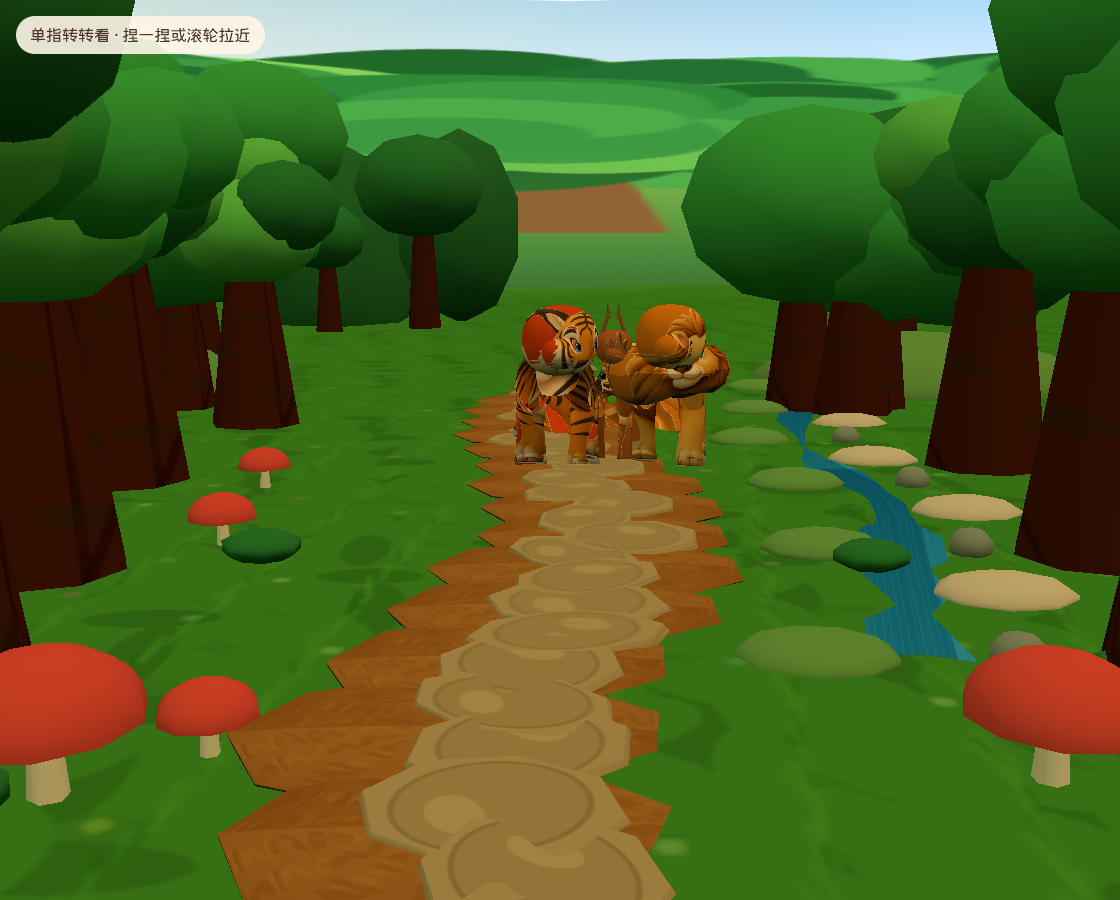
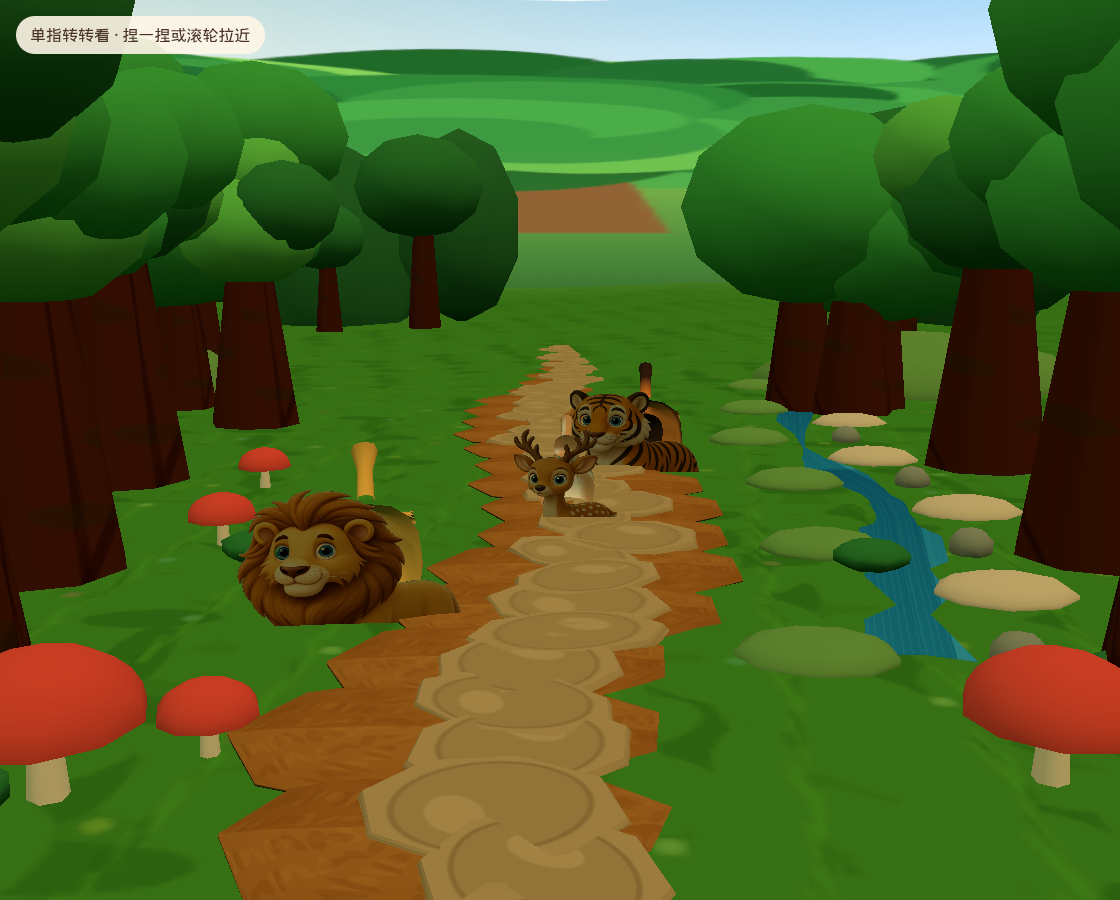
Show the standing cartoon in every forest pose.
The generated PNG stays an undistorted hip-parented cutout, so walk, sit,
drink, and sleep still read as the fluffy-mane lion. The skinned body only
adds volume and leg motion. Recapture the half-size forest stills.

Changed region(s): [[0.4375, 0.3422, 0.6562, 0.5911], [0.1875, 0.4667, 0.4062, 0.7156]]

diff --git a/web/src/world-exhibition/cartoon-rig.ts b/web/src/world-exhibition/cartoon-rig.ts
@@ -1,6 +1,6 @@
 /**
  * 陆地狮 / 鹿 / 虎：真骨骼 + 不涂抹的角色脸。
- * 站立剪纸只贴在头骨上当肖像（鬃毛轮廓还在）；身子/腿是分件蒙皮，不把整张 PNG
+ * 站立剪纸贴在髋骨上当全身肖像（鬃毛轮廓还在）；身子/腿是分件蒙皮，不把 PNG
  * 糊在揉皱的体积上。不是圆球 CSG、不是向日葵幼崽、不是 Kenney 方块。
  */
 import * as THREE from 'three'
@@ -44,7 +44,7 @@ type Bind = {
   coat: string
   mane: string
   belly: string
-  portrait: { w: number; h: number; y: number; z: number; u0: number; v0: number; u1: number; v1: number }
+  portrait: { w: number; h: number; y: number; z: number }
 }
 
 function v(x: number, y: number, z: number): THREE.Vector3 {
@@ -67,7 +67,7 @@ const BIND: Record<LandId, Bind> = {
     coat: '#f0b54a',
     mane: '#d47828',
     belly: '#ffe6b0',
-    portrait: { w: 0.78, h: 0.84, y: 0.05, z: 0.3, u0: 0.0, v0: 0.38, u1: 0.6, v1: 1 },
+    portrait: { w: 1.14, h: 1.22, y: 0.19, z: 0.58 },
   },
   deer: {
     hips: v(0, 0.52, -0.16),
@@ -84,7 +84,7 @@ const BIND: Record<LandId, Bind> = {
     coat: '#d9a066',
     mane: '#c48a4a',
     belly: '#f6e4c8',
-    portrait: { w: 0.4, h: 0.42, y: 0.02, z: 0.2, u0: 0.08, v0: 0.44, u1: 0.6, v1: 0.86 },
+    portrait: { w: 0.78, h: 1.32, y: 0.18, z: 0.56 },
   },
   tiger: {
     hips: v(0, 0.4, -0.2),
@@ -101,7 +101,7 @@ const BIND: Record<LandId, Bind> = {
     coat: '#f08a3a',
     mane: '#e07a30',
     belly: '#ffe0b0',
-    portrait: { w: 0.52, h: 0.5, y: 0.03, z: 0.24, u0: 0.0, v0: 0.46, u1: 0.54, v1: 1 },
+    portrait: { w: 1.08, h: 1.1, y: 0.16, z: 0.6 },
   },
 }
 
@@ -178,14 +178,20 @@ function paintHull(geo: THREE.BufferGeometry, bind: Bind, id: LandId): void {
   const tmp = new THREE.Vector3()
   for (let i = 0; i < pos.count; i++) {
     tmp.fromBufferAttribute(pos, i)
-    const c = tmp.y < bind.hips.y - 0.02 ? belly.clone().lerp(coat, 0.35) : coat.clone()
-    if (id === 'lion' && tmp.z > bind.chest.z - 0.04 && tmp.y > bind.chest.y - 0.08) {
+    const isLeg = Math.abs(tmp.x) > 0.1 && tmp.y < bind.fl.y - 0.02
+    const c = coat.clone()
+    if (isLeg) {
+      if (tmp.y < 0.12) c.lerp(new THREE.Color('#b56b2c'), 0.4)
+    } else if (tmp.y < bind.hips.y - 0.05 && tmp.z > bind.hips.z && tmp.z < bind.chest.z + 0.04) {
+      c.copy(belly)
+    }
+    if (id === 'lion' && !isLeg && tmp.z > bind.chest.z - 0.04 && tmp.y > bind.chest.y - 0.08) {
       c.copy(mane).lerp(coat, 0.18)
     }
-    if (id === 'tiger' && Math.abs(Math.sin(tmp.z * 9 + tmp.y * 3)) > 0.62 && tmp.y > 0.22) {
+    if (id === 'tiger' && !isLeg && Math.abs(Math.sin(tmp.z * 9 + tmp.y * 3)) > 0.62 && tmp.y > 0.22) {
       c.copy(stripe)
     }
-    if (id === 'deer' && tmp.y > bind.spine.y && ((i * 13) % 17) < 2) {
+    if (id === 'deer' && !isLeg && tmp.y > bind.spine.y && ((i * 13) % 17) < 2) {
       c.set('#fff6e0')
     }
     colors[i * 3] = c.r
@@ -211,7 +217,7 @@ function hullFor(id: LandId, bind: Bind): THREE.BufferGeometry {
     ),
   )
 
-  const legR = id === 'deer' ? 0.055 : 0.08
+  const legR = id === 'deer' ? 0.045 : 0.062
   for (const p of [bind.fl, bind.fr, bind.bl, bind.br]) {
     geos.push(
       loft(
@@ -241,14 +247,6 @@ function hullFor(id: LandId, bind: Bind): THREE.BufferGeometry {
       8,
     ),
   )
-
-  if (id === 'lion') {
-    const ruff = new THREE.TorusGeometry(0.22, 0.12, 10, 18)
-    ruff.rotateX(Math.PI / 2)
-    ruff.scale(1.08, 1.2, 0.92)
-    ruff.translate(bind.neck.x, bind.neck.y - 0.02, bind.neck.z - 0.04)
-    geos.push(ruff)
-  }
 
   if (id === 'deer') {
     geos.push(
@@ -339,6 +337,7 @@ function addFace(head: THREE.Bone, id: LandId): void {
       tine.rotation.z = sx * -0.4
       beam.add(tine)
       g.add(beam)
+      g.visible = false
       return g
     }
     head.add(antler('antler-left', -1), antler('antler-right', 1))
@@ -348,20 +347,16 @@ function addFace(head: THREE.Bone, id: LandId): void {
 function makePortrait(id: LandId, bind: Bind, map: THREE.Texture): THREE.Mesh {
   const p = bind.portrait
   const geo = new THREE.PlaneGeometry(p.w, p.h)
-  geo.setAttribute(
-    'uv',
-    new THREE.Float32BufferAttribute([p.u0, p.v1, p.u1, p.v1, p.u0, p.v0, p.u1, p.v0], 2),
-  )
   const mat = new THREE.MeshLambertMaterial({
     map,
     color: '#ffffff',
-    alphaTest: 0.28,
+    alphaTest: 0.22,
     side: THREE.DoubleSide,
     transparent: false,
     depthWrite: true,
     polygonOffset: true,
-    polygonOffsetFactor: -2,
-    polygonOffsetUnits: -2,
+    polygonOffsetFactor: -4,
+    polygonOffsetUnits: -4,
   })
   mat.name = 'portrait'
   const mesh = new THREE.Mesh(geo, mat)
@@ -460,10 +455,10 @@ function clipsFor(bind: Bind): THREE.AnimationClip[] {
   const sitT = [0, 0.35, 1.6]
   const sitHold = (name: string, q: number[]) => qtrack(name, sitT, [q, q, q])
   const sit = new THREE.AnimationClip('sit', 1.6, [
-    sitHold('hips', quat(X, 0.22)),
-    sitHold('spine', quat(X, -0.36)),
-    sitHold('chest', quat(X, -0.06)),
-    sitHold('neck', quat(X, 0.22)),
+    sitHold('hips', quat(X, 0.42)),
+    sitHold('spine', quat(X, -0.28)),
+    sitHold('chest', quat(X, -0.04)),
+    sitHold('neck', quat(X, 0.18)),
     sitHold('head', REST),
     sitHold('leg-back-left', quat(X, 1.15)),
     sitHold('leg-back-right', quat(X, 1.15)),
@@ -472,28 +467,30 @@ function clipsFor(bind: Bind): THREE.AnimationClip[] {
     sitHold('leg-front-left', quat(X, 0.08)),
     sitHold('leg-front-right', quat(X, 0.08)),
     sitHold('tail', quat(X, 0.25)),
-    new THREE.VectorKeyframeTrack('hips.position', sitT, [...hipPos(hy * 0.62), ...hipPos(hy * 0.62), ...hipPos(hy * 0.62)]),
+    new THREE.VectorKeyframeTrack('hips.position', sitT, [...hipPos(hy * 0.5), ...hipPos(hy * 0.5), ...hipPos(hy * 0.5)]),
   ])
 
   const drinkT = [0, 0.3, 1.5]
   const drinkHold = (name: string, q: number[]) => qtrack(name, drinkT, [q, q, q])
   const drink = new THREE.AnimationClip('drink', 1.5, [
-    drinkHold('neck', quat(X, 0.55)),
-    drinkHold('head', quat(X, 0.28)),
-    drinkHold('leg-front-left', quat(X, 0.22)),
-    drinkHold('leg-front-right', quat(X, 0.22)),
+    drinkHold('hips', quat(X, 0.38)),
+    drinkHold('spine', quat(X, 0.16)),
+    drinkHold('neck', quat(X, 0.22)),
+    drinkHold('head', quat(X, 0.12)),
+    drinkHold('leg-front-left', quat(X, 0.28)),
+    drinkHold('leg-front-right', quat(X, 0.28)),
     drinkHold('tail', quat(X, 0.12)),
-    new THREE.VectorKeyframeTrack('hips.position', drinkT, [...hipPos(hy * 0.92), ...hipPos(hy * 0.92), ...hipPos(hy * 0.92)]),
+    new THREE.VectorKeyframeTrack('hips.position', drinkT, [...hipPos(hy * 0.88), ...hipPos(hy * 0.88), ...hipPos(hy * 0.88)]),
   ])
 
   const sleepT = [0, 0.4, 2]
   const sleepHold = (name: string, q: number[]) => qtrack(name, sleepT, [q, q, q])
   const sleep = new THREE.AnimationClip('sleep', 2, [
-    sleepHold('hips', quat(X, 0.08)),
-    sleepHold('spine', quat(X, 0.1)),
+    sleepHold('hips', quat(X, 0.22)),
+    sleepHold('spine', quat(X, 0.08)),
     sleepHold('chest', quat(X, 0.04)),
-    sleepHold('neck', quat(X, -0.14)),
-    sleepHold('head', quat(X, 0.04)),
+    sleepHold('neck', quat(X, -0.1)),
+    sleepHold('head', quat(X, 0.02)),
     sleepHold('leg-front-left', quat(X, 0.95)),
     sleepHold('leg-front-right', quat(X, 0.95)),
     sleepHold('leg-back-left', quat(X, 1.05)),
@@ -502,7 +499,7 @@ function clipsFor(bind: Bind): THREE.AnimationClip[] {
     sleepHold('leg-front-right-low', quat(X, -0.9)),
     sleepHold('leg-back-left-low', quat(X, -0.98)),
     sleepHold('leg-back-right-low', quat(X, -0.98)),
-    sleepHold('tail', quat(Y, 0.2)),
+    sleepHold('tail', quat(X, 0.85)),
     new THREE.VectorKeyframeTrack('hips.position', sleepT, [...hipPos(hy * 0.46), ...hipPos(hy * 0.46), ...hipPos(hy * 0.46)]),
   ])
 
@@ -549,7 +546,7 @@ export function buildCartoonRig(id: AnimalId, map: THREE.Texture): THREE.Group {
   bone('leg-back-right-low', v(bind.br.x, bind.br.y - bind.legLen * 0.5, bind.br.z), br)
   addFace(head, kind)
   const portrait = makePortrait(kind, bind, map)
-  head.add(portrait)
+  hips.add(portrait)
   if (kind === 'lion') {
     const mane = dummy('mane', bind.mane, 0.02, 0.02, 0.02)
     mane.visible = false

diff --git a/web/src/world-exhibition/host-world.ts b/web/src/world-exhibition/host-world.ts
@@ -467,6 +467,22 @@ export class HostWorld {
     return true
   }
 
+  private snapClip(group: THREE.Group, time: number): void {
+    const mixer = group.userData.mixer as THREE.AnimationMixer | undefined
+    const active = group.userData.activeClip as THREE.AnimationAction | undefined
+    const actions = group.userData.actions as Record<string, THREE.AnimationAction> | undefined
+    if (!mixer || !active) return
+    if (actions) {
+      for (const clip of Object.values(actions)) {
+        if (clip !== active) clip.stop()
+      }
+    }
+    active.enabled = true
+    active.setEffectiveWeight(1)
+    active.time = time
+    mixer.update(0)
+  }
+
   /** 狮 / 鹿 / 虎站在石径上，对着 gen-forest-with-animals。 */
   poseLineup(): boolean {
     const land = [...this.actors.values()].filter((a) => !a.marine)
@@ -482,7 +498,9 @@ export class HostWorld {
       actor.frozen = true
       actor.group.position.set(slot[0], 0.02, slot[1])
       actor.group.rotation.y = 0
+      actor.group.userData._animT = undefined
       tickAction(actor.group, 'walk', 0.35)
+      this.snapClip(actor.group, 0.35)
       if (facesHostCamera(actor.group)) billboardY(actor.group, this.camera)
     })
     this.orbit.target.set(0.05, 0.62, -0.4)
@@ -503,32 +521,22 @@ export class HostWorld {
     chosen.forEach((actor, i) => {
       actor.frozen = true
       if (action === 'drink') {
-        actor.group.position.set(SHORE_DRINK.x, 0.02, SHORE_DRINK.z + actor.lane * 0.7)
-      } else if (action === 'rest') {
-        const p = pointOnPath(0.28, -3.2 + i * 1.4)
-        actor.group.position.set(p.x, 0.02, p.z)
-      } else if (action === 'sit') {
-        const p = pointOnPath(0.42, 2.8 - i * 1.6)
-        actor.group.position.set(p.x, 0, p.z)
+        actor.group.position.set(SHORE_DRINK.x - 1.7 + i * 1.15, 0.02, SHORE_DRINK.z - 0.15 + i * 0.2)
       } else {
         const slot = slots[Math.min(i, slots.length - 1)]!
-        actor.group.position.set(slot[0], 0.02, slot[1])
+        const back = action === 'rest' ? -0.45 : action === 'sit' ? -0.2 : 0
+        actor.group.position.set(slot[0], 0.02, slot[1] + back)
       }
       actor.group.rotation.y = 0
       actor.group.userData._animT = undefined
       const sample = action === 'walk' ? 0.28 : 0.8
       tickAction(actor.group, action, sample)
-      const mixer = actor.group.userData.mixer as THREE.AnimationMixer | undefined
-      const active = actor.group.userData.activeClip as THREE.AnimationAction | undefined
-      if (mixer && active) {
-        active.time = sample
-        mixer.update(0)
-      }
+      this.snapClip(actor.group, sample)
       if (facesHostCamera(actor.group)) billboardY(actor.group, this.camera)
     })
     if (action === 'drink') {
-      this.orbit.target.set(SHORE_DRINK.x, 0.55, SHORE_DRINK.z)
-      this.camera.position.set(SHORE_DRINK.x + 0.18, 2.7, SHORE_DRINK.z + 11.6)
+      this.orbit.target.set(SHORE_DRINK.x - 0.5, 0.55, SHORE_DRINK.z)
+      this.camera.position.set(SHORE_DRINK.x - 0.35, 2.7, SHORE_DRINK.z + 11.6)
     } else {
       this.orbit.target.set(0.05, 0.55, -0.2)
       this.camera.position.set(0.18, 2.7, 11.6)
